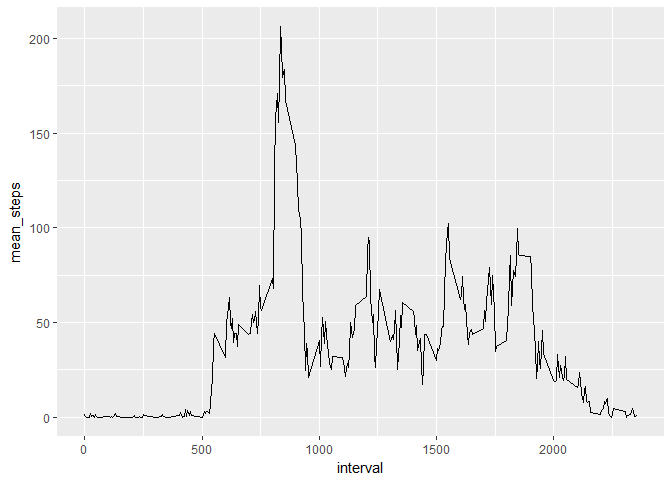
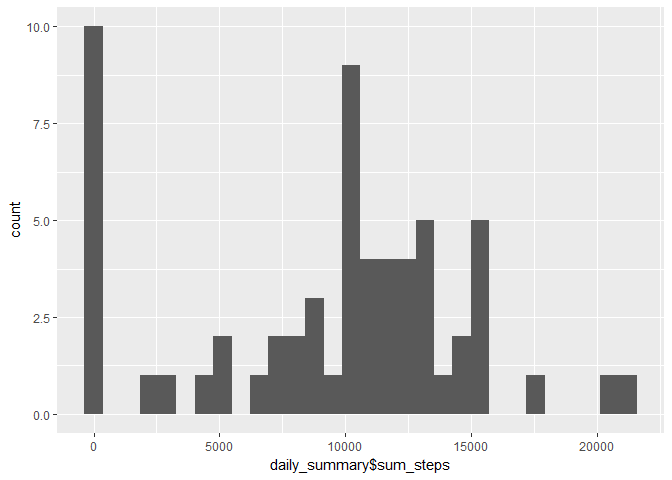
commit 2

diff --git a/PA1_template.html b/PA1_template.html
@@ -122,70 +122,114 @@ $(document).ready(function () {
 
 <div id="loading-and-preprocessing-the-data" class="section level2">
 <h2>Loading and preprocessing the data</h2>
-<p>Read the data into a dataframe “data”</p>
-<pre class="r"><code>data &lt;- read.csv(unzip(&quot;activity.zip&quot;))</code></pre>
+<p><em>Load the data (i.e. read.csv()). Process/transform the data (if necessary) into a format suitable for your analysis</em></p>
+<pre class="r"><code># Load packages to be used
+library(dplyr)
+library(reshape2)
+library(lubridate)
+library(ggplot2)</code></pre>
+<pre class="r"><code># Read in the data
+data &lt;- read.csv(unzip(&quot;activity.zip&quot;),stringsAsFactors=FALSE)</code></pre>
 </div>
 <div id="what-is-mean-total-number-of-steps-taken-per-day" class="section level2">
 <h2>What is mean total number of steps taken per day?</h2>
-<pre class="r"><code>library(dplyr)</code></pre>
-<pre><code>## 
-## Attaching package: 'dplyr'</code></pre>
-<pre><code>## The following objects are masked from 'package:stats':
-## 
-##     filter, lag</code></pre>
-<pre><code>## The following objects are masked from 'package:base':
-## 
-##     intersect, setdiff, setequal, union</code></pre>
-<pre class="r"><code># Ignoring the missing values in the dataset.
-
-# (1) Calculate the total number of steps taken per day
-daily_summary &lt;- 
+<p>Note: Ignoring the missing values in the dataset.</p>
+<p><em>(1) Calculate the total number of steps taken per day</em></p>
+<pre class="r"><code>daily_summary &lt;- 
     summarize(group_by(data,date),
               sum_steps=sum(steps,na.rm=T)
-              )
-
-# (3) Make a histogram of the total number of steps taken each day
-library(ggplot2)
-qplot(daily_summary$sum_steps)</code></pre>
-<pre><code>## `stat_bin()` using `bins = 30`. Pick better value with `binwidth`.</code></pre>
[1 lines of base64/hex data omitted]
-<pre class="r"><code># (2) Calculate and report the mean and median of the total number of steps taken per day
-mean(daily_summary$sum_steps, na.rm=T)</code></pre>
+              )</code></pre>
+<p><em>(2) Make a histogram of the total number of steps taken each day</em></p>
+<pre class="r"><code>qplot(daily_summary$sum_steps, binwidth=500)</code></pre>
[1 lines of base64/hex data omitted]
+<p><em>(3) Calculate and report the mean and median of the total number of steps taken per day</em></p>
+<pre class="r"><code>mean(daily_summary$sum_steps, na.rm=T)</code></pre>
 <pre><code>## [1] 9354.23</code></pre>
 <pre class="r"><code>median(daily_summary$sum_steps, na.rm=T)</code></pre>
 <pre><code>## [1] 10395</code></pre>
 </div>
 <div id="what-is-the-average-daily-activity-pattern" class="section level2">
 <h2>What is the average daily activity pattern?</h2>
-<pre class="r"><code># (1) Make a time series plot (i.e. type = &quot;l&quot;) of the 5-minute interval (x-axis) and the average number of steps taken, averaged across all days (y-axis)
-interval_summary &lt;- 
+<p><em>(1) Make a time series plot of the 5-minute interval (x-axis) and the average number of steps taken, averaged across all days (y-axis)</em></p>
+<pre class="r"><code>interval_summary &lt;- 
     summarize(group_by(data,interval),
               mean_steps=mean(steps,na.rm=T),
               sum_steps=sum(steps,na.rm=T))
 
 qplot(interval,mean_steps,data=interval_summary, geom = &quot;line&quot;)</code></pre>
[1 lines of base64/hex data omitted]
-<pre class="r"><code># (2) Which 5-minute interval, on average across all the days in the dataset, contains the maximum number of steps?
-interval_summary$interval[which.max(interval_summary$mean_steps)]</code></pre>
+<p><em>(2) Which 5-minute interval, on average across all the days in the dataset, contains the maximum number of steps?</em></p>
+<pre class="r"><code>interval_summary$interval[which.max(interval_summary$mean_steps)]</code></pre>
 <pre><code>## [1] 835</code></pre>
 </div>
 <div id="imputing-missing-values" class="section level2">
 <h2>Imputing missing values</h2>
-<pre class="r"><code># (1) Calculate and report the total number of missing values in the dataset (i.e. the total number of rows with NAs)
-sum(is.na(data$steps))</code></pre>
+<p><em>(1) Calculate and report the total number of missing values in the dataset (i.e. the total number of rows with NAs)</em></p>
+<pre class="r"><code>sum(is.na(data$steps))</code></pre>
 <pre><code>## [1] 2304</code></pre>
-<pre class="r"><code># Devise a strategy for filling in all of the missing values in the dataset. The strategy does not need to be sophisticated. For example, you could use the mean/median for that day, or the mean for that 5-minute interval, etc.
-data_copy &lt;-
+<p><em>(2) Devise a strategy for filling in all of the missing values in the dataset.</em></p>
+<p>Here I decided use the mean for that 5-minute interval across all days in the dataset (excluding missing values).</p>
+<p><em>(3) Create a new dataset that is equal to the original dataset but with the missing data filled in.</em></p>
+<p>Simply add a column to the dataframe to hold the original and imputed values where was missing</p>
+<pre class="r"><code>data &lt;-
     data %&gt;% 
     group_by(interval) %&gt;%
-    mutate(steps= replace(steps, is.na(steps), mean(steps, na.rm=TRUE)))
-# verify
-sum(is.na(data_copy$steps))</code></pre>
-<pre><code>## [1] 0</code></pre>
-<pre class="r"><code># (4) Make a histogram of the total number of steps taken each day and Calculate and report the mean and median total number of steps taken per day. Do these values differ from the estimates from the first part of the assignment? What is the impact of imputing missing data on the estimates of the total daily number of steps?</code></pre>
+    mutate(steps_impute= replace(steps, is.na(steps), mean(steps, na.rm=TRUE)))</code></pre>
+<p><em>(4) Make a histogram of the total number of steps taken each day and Calculate and report the mean and median total number of steps taken per day.</em></p>
+<pre class="r"><code>daily_summary &lt;- 
+    summarize(group_by(data, date),
+              sum_steps=sum(steps,na.rm=T),
+              sum_steps_impute=sum(steps_impute,na.rm=T)
+              )
+
+#reshape in &quot;long&quot; format ggplot can work with
+daily_summary_melt &lt;- melt(daily_summary, id=&quot;date&quot;)
+
+# generate a paneled histogram, so can view side-by-side
+qplot(value, data=daily_summary_melt, facets = . ~ variable, binwidth=500)</code></pre>
[1 lines of base64/hex data omitted]
+<pre class="r"><code>#
+mean(daily_summary$sum_steps)</code></pre>
+<pre><code>## [1] 9354.23</code></pre>
+<pre class="r"><code>mean(daily_summary$sum_steps_impute)</code></pre>
+<pre><code>## [1] 10766.19</code></pre>
+<pre class="r"><code>median(daily_summary$sum_steps)</code></pre>
+<pre><code>## [1] 10395</code></pre>
+<pre class="r"><code>median(daily_summary$sum_steps_impute)</code></pre>
+<pre><code>## [1] 10766.19</code></pre>
+<p><em>Do these values differ from the estimates from the first part of the assignment? What is the impact of imputing missing data on the estimates of the total daily number of steps?</em></p>
+<p>Yes, we can see visually from the histograms and comparison of mean and median values before and after imputation that replacing missing data with imputed values</p>
+<ul>
+<li>reduces the number of days with 0 steps</li>
+<li>shifts those days to the 11000-11500 range</li>
+<li>increases the daily total and average number of steps (of course!).<br />
+</li>
+<li>the mean and median daily steps become equivalent, meaning a (more) symmetrical distribution.</li>
+</ul>
 </div>
 <div id="are-there-differences-in-activity-patterns-between-weekdays-and-weekends" class="section level2">
 <h2>Are there differences in activity patterns between weekdays and weekends?</h2>
+<pre class="r"><code># Leverage lubridate to get weekday, then create a new variable to store &quot;weekday&quot; vs &quot;weekend&quot;
+data$date &lt;- ymd(data$date)
+data$weekday &lt;- wday(data$date, label=T)
+data$daytype = ifelse(data$weekday %in% c('Sun','Sat'), 'Weekend','Weekday')</code></pre>
+<p><em>Make a paneled time-series plot of the 5-minute interval (x-axis) and the average number of steps taken, averaged across all weekday days or weekend days (y-axis)</em></p>
+<pre class="r"><code>daytype_summary &lt;-
+    summarize(
+        group_by(data,daytype,interval),
+        sum_steps=sum(steps,na.rm=T),
+        sum_steps_impute=sum(steps_impute,na.rm=T),
+        mean_steps=mean(steps,na.rm=T),
+        mean_steps_impute=mean(steps_impute,na.rm=T)
+    )
+
+#reshape in &quot;long&quot; format ggplot can work with
+daytype_summary_melt &lt;- melt(daytype_summary, id=c(&quot;daytype&quot;,&quot;interval&quot;))
+
+# generate a paneled histogram, so can view side-by-side
+qplot(interval, value, data=daytype_summary_melt, geom = &quot;line&quot;, facets = . ~ daytype)</code></pre>
[1 lines of base64/hex data omitted]
+<p>Basically, we see that the weekend involves fewer steps, and there is not the morning “spike” 8am-10am.</p>
 </div>
 
 

diff --git a/PA1_template.md b/PA1_template.md
@@ -2,57 +2,46 @@
 
 
 ## Loading and preprocessing the data
-Read the data into a dataframe "data"
+*Load the data (i.e. read.csv()). Process/transform the data (if necessary) into a format suitable for your analysis*
 
 ```r
-data <- read.csv(unzip("activity.zip"))
+# Load packages to be used
+library(dplyr)
+library(reshape2)
+library(lubridate)
+library(ggplot2)
+```
+
+
+
+```r
+# Read in the data
+data <- read.csv(unzip("activity.zip"),stringsAsFactors=FALSE)
 ```
 
 ## What is mean total number of steps taken per day?
+Note: Ignoring the missing values in the dataset.
+
+*(1) Calculate the total number of steps taken per day*
 
 ```r
-library(dplyr)
-```
-
-```
-## 
-## Attaching package: 'dplyr'
-```
-
-```
-## The following objects are masked from 'package:stats':
-## 
-##     filter, lag
-```
-
-```
-## The following objects are masked from 'package:base':
-## 
-##     intersect, setdiff, setequal, union
-```
-
-```r
-# Ignoring the missing values in the dataset.
-
-# (1) Calculate the total number of steps taken per day
 daily_summary <- 
     summarize(group_by(data,date),
               sum_steps=sum(steps,na.rm=T)
               )
-
-# (3) Make a histogram of the total number of steps taken each day
-library(ggplot2)
-qplot(daily_summary$sum_steps)
 ```
 
-```
-## `stat_bin()` using `bins = 30`. Pick better value with `binwidth`.
-```
-
-![](PA1_template_files/figure-html/unnamed-chunk-2-1.png)<!-- -->
+*(2) Make a histogram of the total number of steps taken each day*
 
 ```r
-# (2) Calculate and report the mean and median of the total number of steps taken per day
+qplot(daily_summary$sum_steps, binwidth=500)
+```
+
+![](PA1_template_files/figure-html/unnamed-chunk-4-1.png)<!-- -->
+
+*(3) Calculate and report the mean and median of the total number of steps taken per day*
+
+```r
 mean(daily_summary$sum_steps, na.rm=T)
 ```
 
@@ -69,9 +58,9 @@ median(daily_summary$sum_steps, na.rm=T)
 ```
 
 ## What is the average daily activity pattern?
+*(1) Make a time series plot of the 5-minute interval (x-axis) and the average number of steps taken, averaged across all days (y-axis)*
 
 ```r
-# (1) Make a time series plot (i.e. type = "l") of the 5-minute interval (x-axis) and the average number of steps taken, averaged across all days (y-axis)
 interval_summary <- 
     summarize(group_by(data,interval),
               mean_steps=mean(steps,na.rm=T),
@@ -80,10 +69,11 @@ interval_summary <-
 qplot(interval,mean_steps,data=interval_summary, geom = "line")
 ```
 
-![](PA1_template_files/figure-html/unnamed-chunk-3-1.png)<!-- -->
+![](PA1_template_files/figure-html/unnamed-chunk-6-1.png)<!-- -->
+
+*(2) Which 5-minute interval, on average across all the days in the dataset, contains the maximum number of steps?*
 
 ```r
-# (2) Which 5-minute interval, on average across all the days in the dataset, contains the maximum number of steps?
 interval_summary$interval[which.max(interval_summary$mean_steps)]
 ```
 
@@ -93,9 +83,9 @@ interval_summary$interval[which.max(interval_summary$mean_steps)]
 
 
 ## Imputing missing values
+*(1) Calculate and report the total number of missing values in the dataset (i.e. the total number of rows with NAs)*
 
 ```r
-# (1) Calculate and report the total number of missing values in the dataset (i.e. the total number of rows with NAs)
 sum(is.na(data$steps))
 ```
 
@@ -103,24 +93,109 @@ sum(is.na(data$steps))
 ## [1] 2304
 ```
 
+*(2) Devise a strategy for filling in all of the missing values in the dataset.*
+
+Here I decided use the mean for that 5-minute interval across all days in the dataset (excluding missing values).
+
+*(3) Create a new dataset that is equal to the original dataset but with the missing data filled in.*
+
+Simply add a column to the dataframe to hold the original and imputed values where was missing
+
 ```r
-# Devise a strategy for filling in all of the missing values in the dataset. The strategy does not need to be sophisticated. For example, you could use the mean/median for that day, or the mean for that 5-minute interval, etc.
-data_copy <-
+data <-
     data %>% 
     group_by(interval) %>%
-    mutate(steps= replace(steps, is.na(steps), mean(steps, na.rm=TRUE)))
-# verify
-sum(is.na(data_copy$steps))
+    mutate(steps_impute= replace(steps, is.na(steps), mean(steps, na.rm=TRUE)))
+```
+
+*(4) Make a histogram of the total number of steps taken each day and Calculate and report the mean and median total number of steps taken per day.*
+
+```r
+daily_summary <- 
+    summarize(group_by(data, date),
+              sum_steps=sum(steps,na.rm=T),
+              sum_steps_impute=sum(steps_impute,na.rm=T)
+              )
+
+#reshape in "long" format ggplot can work with
+daily_summary_melt <- melt(daily_summary, id="date")
+
+# generate a paneled histogram, so can view side-by-side
+qplot(value, data=daily_summary_melt, facets = . ~ variable, binwidth=500)
+```
+
+![](PA1_template_files/figure-html/unnamed-chunk-10-1.png)<!-- -->
+
+```r
+#
+mean(daily_summary$sum_steps)
 ```
 
 ```
-## [1] 0
+## [1] 9354.23
 ```
 
 ```r
-# (4) Make a histogram of the total number of steps taken each day and Calculate and report the mean and median total number of steps taken per day. Do these values differ from the estimates from the first part of the assignment? What is the impact of imputing missing data on the estimates of the total daily number of steps?
+mean(daily_summary$sum_steps_impute)
 ```
 
+```
+## [1] 10766.19
+```
 
+```r
+median(daily_summary$sum_steps)
+```
+
+```
+## [1] 10395
+```
+
+```r
+median(daily_summary$sum_steps_impute)
+```
+
+```
+## [1] 10766.19
+```
+
+*Do these values differ from the estimates from the first part of the assignment? What is the impact of imputing missing data on the estimates of the total daily number of steps?*
+
+Yes, we can see visually from the histograms and comparison of mean and median values before and after imputation that replacing missing data with imputed values
+
+- reduces the number of days with 0 steps
+- shifts those days to the 11000-11500 range
+- increases the daily total and average number of steps (of course!).  
+- the mean and median daily steps become equivalent, meaning a (more) symmetrical distribution. 
 
 ## Are there differences in activity patterns between weekdays and weekends?
+
+```r
+# Leverage lubridate to get weekday, then create a new variable to store "weekday" vs "weekend"
+data$date <- ymd(data$date)
+data$weekday <- wday(data$date, label=T)
+data$daytype = ifelse(data$weekday %in% c('Sun','Sat'), 'Weekend','Weekday')
+```
+
+*Make a paneled time-series plot of the 5-minute interval (x-axis) and the average number of steps taken, averaged across all weekday days or weekend days (y-axis)*
+
+```r
+daytype_summary <-
+    summarize(
+        group_by(data,daytype,interval),
+        sum_steps=sum(steps,na.rm=T),
+        sum_steps_impute=sum(steps_impute,na.rm=T),
+        mean_steps=mean(steps,na.rm=T),
+        mean_steps_impute=mean(steps_impute,na.rm=T)
+    )
+
+#reshape in "long" format ggplot can work with
+daytype_summary_melt <- melt(daytype_summary, id=c("daytype","interval"))
+
+# generate a paneled histogram, so can view side-by-side
+qplot(interval, value, data=daytype_summary_melt, geom = "line", facets = . ~ daytype)
+```
+
+![](PA1_template_files/figure-html/unnamed-chunk-12-1.png)<!-- -->
+
+Basically, we see that the weekend involves fewer steps, and there is not the morning "spike" 8am-10am.
